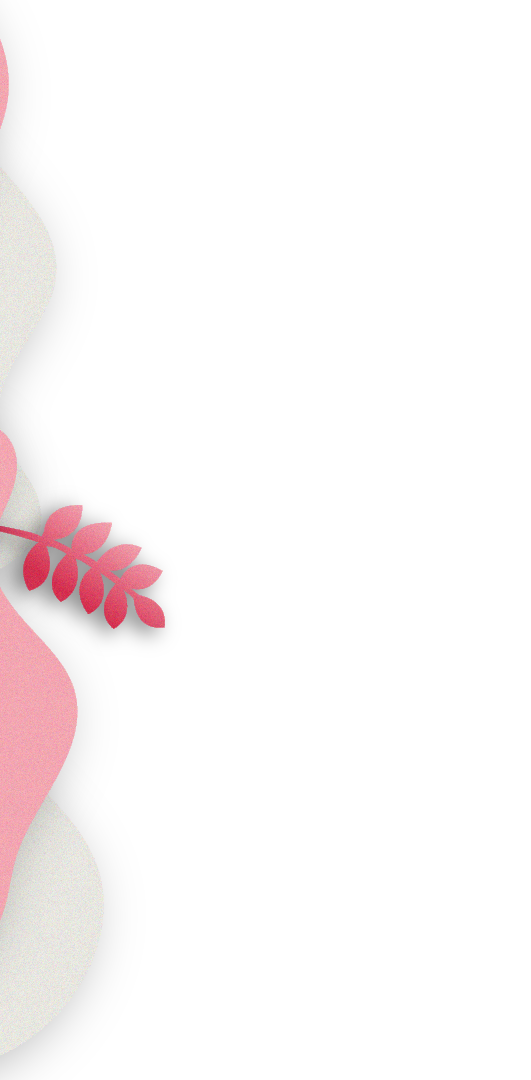
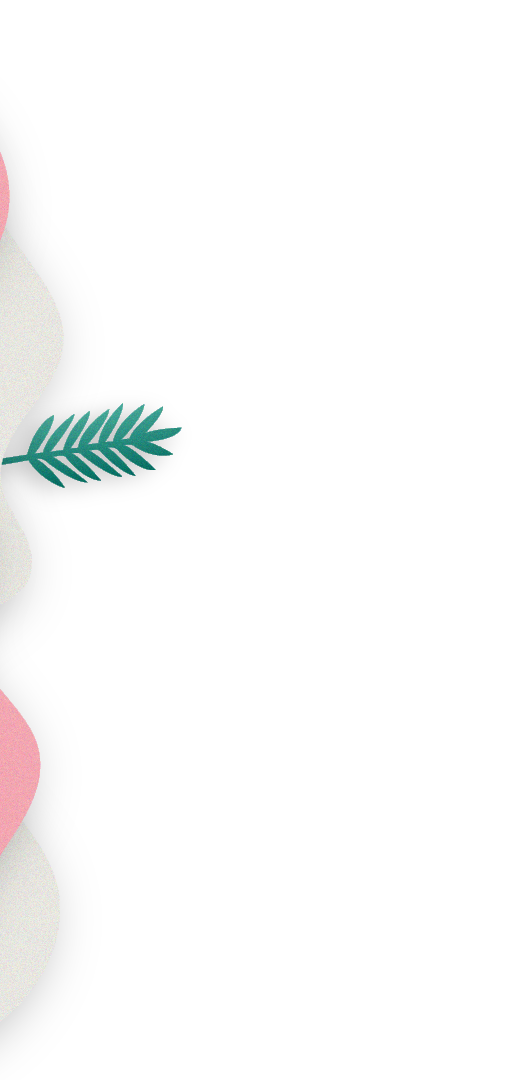
About Responsief

Changed region(s): [[0.0, 0.1528, 0.3315, 1.0], [0.0, 0.0306, 0.0301, 0.1222]]

diff --git a/src/index.css b/src/index.css
@@ -416,11 +416,25 @@ html {
 }
 
  .webp .background_about {
-      background-image: url(/assets/backgrounds/tablet_about_left.webp);
-  }
+    background-image: url(/assets/backgrounds/tablet_about_left.webp), url(/assets/backgrounds/desktop_about_wedding.webp);
+    background-position: left, right 75%;
+    background-size: auto 100%, 40% auto;
+}
 
   .no-webp .background_about {
-    background-image: url(/assets/backgrounds/tablet_about_left.png);
+    background-image: url(/assets/backgrounds/tablet_about_left.png), url(/assets/backgrounds/desktop_about_wedding.png);
+    background-position: left, right 75%;
+    background-size: auto 100%, 40% auto;
+}
+
+.webp .about {
+  background-image: url(/assets/backgrounds/desktop_about_location.webp);
+  background-size: 100% auto;
+}
+
+.no-webp .about {
+  background-image: url(/assets/backgrounds/desktop_about_location.png);
+  background-size: 100% auto;
 }
 
 }
@@ -457,7 +471,7 @@ html {
 
   .no-webp .background_about {
     background-image: none;
-}
+  }
 
 }
 

diff --git a/src/containers/Home/home.module.css b/src/containers/Home/home.module.css
@@ -149,7 +149,7 @@
 .about_subtitle {
     display: flex;
     align-items: center;
-    margin-bottom: 1rem;
+    margin-bottom: 1.5rem;
 }
 
 .subtitle_line {
@@ -191,6 +191,14 @@
     .header_info {
         width:100%;
         padding: 0 3rem;
+    }
+
+    .about_header {
+        margin-bottom: 10rem;
+    }
+
+    .about_div {
+        height: 40rem;
     }
 
 }
@@ -266,6 +274,10 @@
         align-self: flex-start;
     }
 
+    .about_div {
+        height: 25rem;
+    }
+
 }
 
 @media screen and (max-width: 500px) {
@@ -303,6 +315,10 @@
 
     .image_pic {
         width: 100% !important;
+    }
+
+    .about_div {
+        height: 13rem;
     }
 
 }
